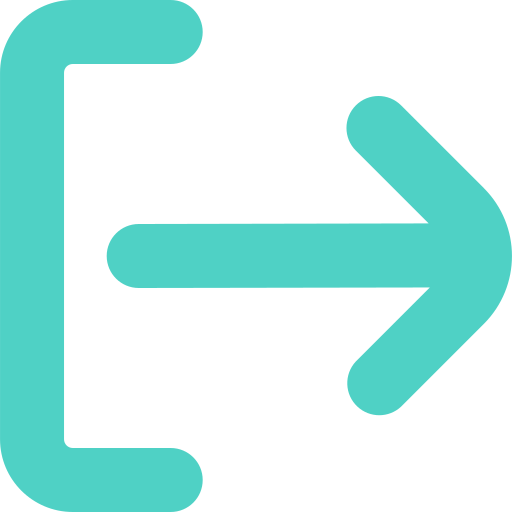
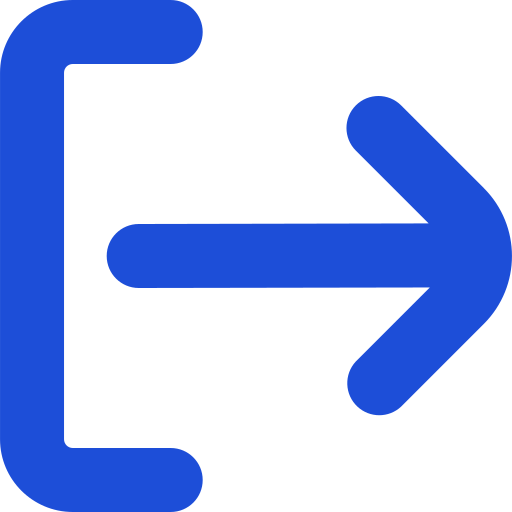
Actualizacion colores sidebar y perfil usuario

diff --git a/css/profile.css b/css/profile.css
@@ -1,5 +1,5 @@
 body {
-    background-color: #F8F9FA;
+    background-color: #F8FAFC;
     margin: 0;
     padding: 0;
     display: flex;
@@ -11,7 +11,7 @@ body {
   .title-container {
     font-size: 36px;
     font-weight: bold;
-    color: #2D3748;
+    color: #1D4ED8;
     position: absolute;
     top: 40px;
     left: 300px;
@@ -27,16 +27,17 @@ body {
   }
   
   .form-box {
-    background-color: #ffffff;
+    background-color: #F0F4F9;
     padding: 20px;
     border-radius: 10px;
     width: 400px;
     color: #2D3748;
     
-    font-weight: 550;
+    font-weight: 530;
     
   box-shadow: 4px 4px 10px rgba(0, 0, 0, 0.1);
-  }
+  border: 2px solid #0202021c; /* Contorno azul */
+}
   
   .form-box label {
     display: block;
@@ -50,8 +51,8 @@ body {
     margin-bottom: 15px;
     border: none;
     border-radius: 5px;
-    background-color: #F8F9FA;
-    color: #2D3748;
+    background-color: #E2E8F0;
+    color: #475569;
     margin-right: 10px; /* Espacio a la derecha */
   }
   /* Button */
@@ -65,7 +66,7 @@ body {
 
 /* Botón con desplazamiento hacia la derecha */
 .edit-button {
-    background-color: #4FD1C5;
+    background-color: #1D4ED8;
     border: none;
     border-radius: 8px;
     font-size: 15px;
@@ -81,7 +82,7 @@ body {
 }
 
 .edit-button:hover {
-    background-color: #256a96;
+    background-color: #2563EB;
     transition: background-color 0.3s ease;
 }
 

diff --git a/css/sidebar.css b/css/sidebar.css
@@ -6,7 +6,7 @@ body {
 .sidebar {
   width: 250px;
   height: calc(100vh - 20px);
-  background-color: #F8F9FA;
+  background-color: #F8FAFC;
   display: flex;
   flex-direction: column;
   justify-content: space-between;
@@ -25,7 +25,7 @@ body {
   margin-bottom: 10px;
   height: 35px;
   margin-top: 10px;
-  
+  color:#1D4ED8;
 }
 
 .sidebar-title-bold {
@@ -67,12 +67,12 @@ body {
 
 .sidebar-menu-item:hover {
   
-  background-color: rgb(255, 255, 255);
+  background-color: #F1F5F9;
   transform: scale(1.01);
 }
 
 .sidebar-icon-bg {
-  background-color: #FFFFFF;
+  background-color: #F1F5F9;
   padding: 6px;
   border-radius: 8px;
   display: flex;
@@ -108,8 +108,7 @@ body {
 }
 /* Estilo para la opción activa en el sidebar */
 .sidebar-menu-item.active {
-  background-color: #ffffff;
-  color: white;
+  background-color: #F1F5F9;
   border-radius: 5px;
   box-shadow: 4px 4px 10px rgba(0, 0, 0, 0.1);
 }
